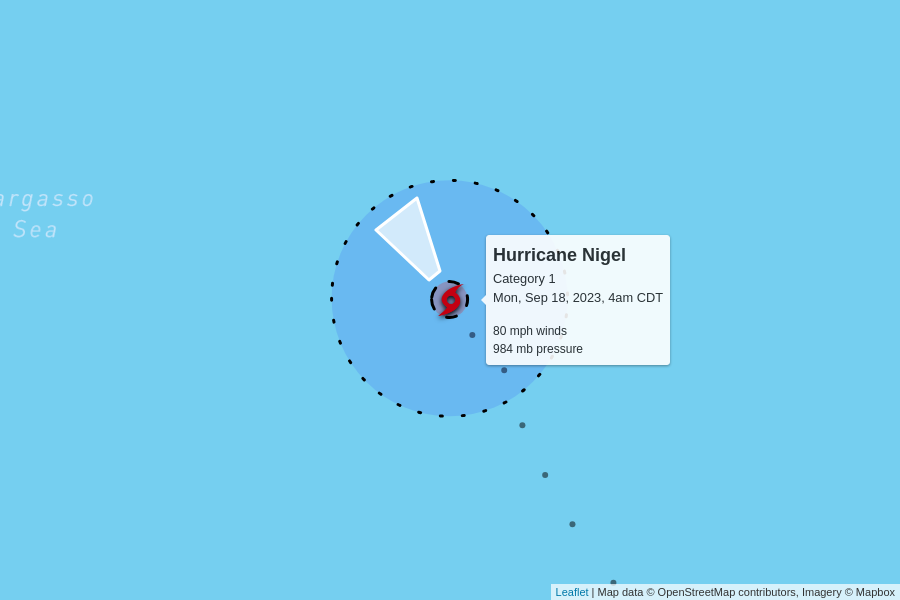
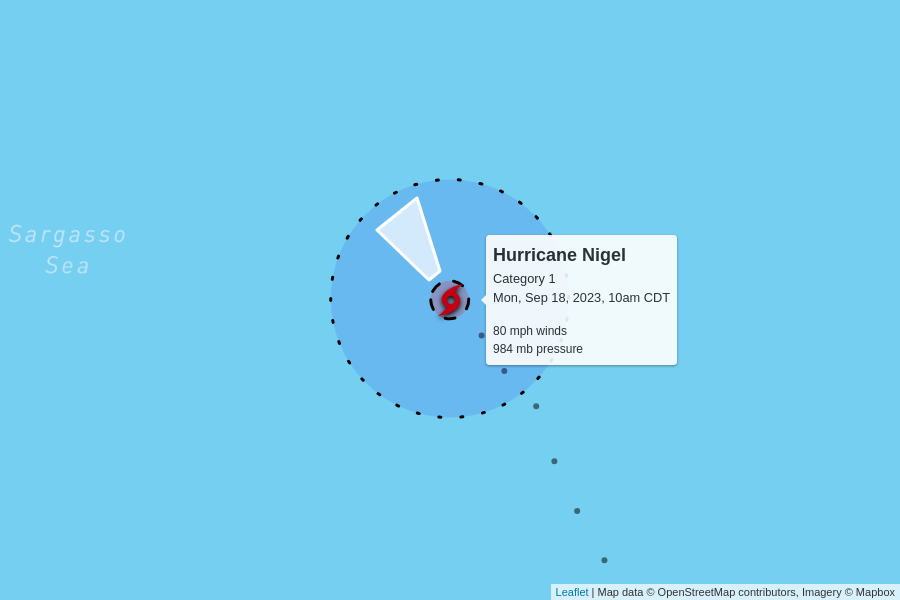
automatic update

diff --git a/docs/index.html b/docs/index.html
@@ -102,7 +102,7 @@
         <td colspan="6" class="storm category-1" >
           <h2>
             Hurricane Nigel - Category 1
-            <p class="updated">last updated <span data-time>2023-09-18T09:00:00.000Z</span></p>
+            <p class="updated">last updated <span data-time>2023-09-18T15:00:00.000Z</span></p>
           </h2>
         </td>
       </tr>
@@ -117,8 +117,8 @@
       </tr>
       <tr>
         <td class="spacer"></td>
-        <td>80 mph<br>+10 mph since last update</td>
-        <td>984 mb<br>-8 mb since last update</td>
+        <td>80 mph<br>0 mph since last update</td>
+        <td>984 mb<br>0 mb since last update</td>
         <td>
           12 mph to the northwest
           <br/>
